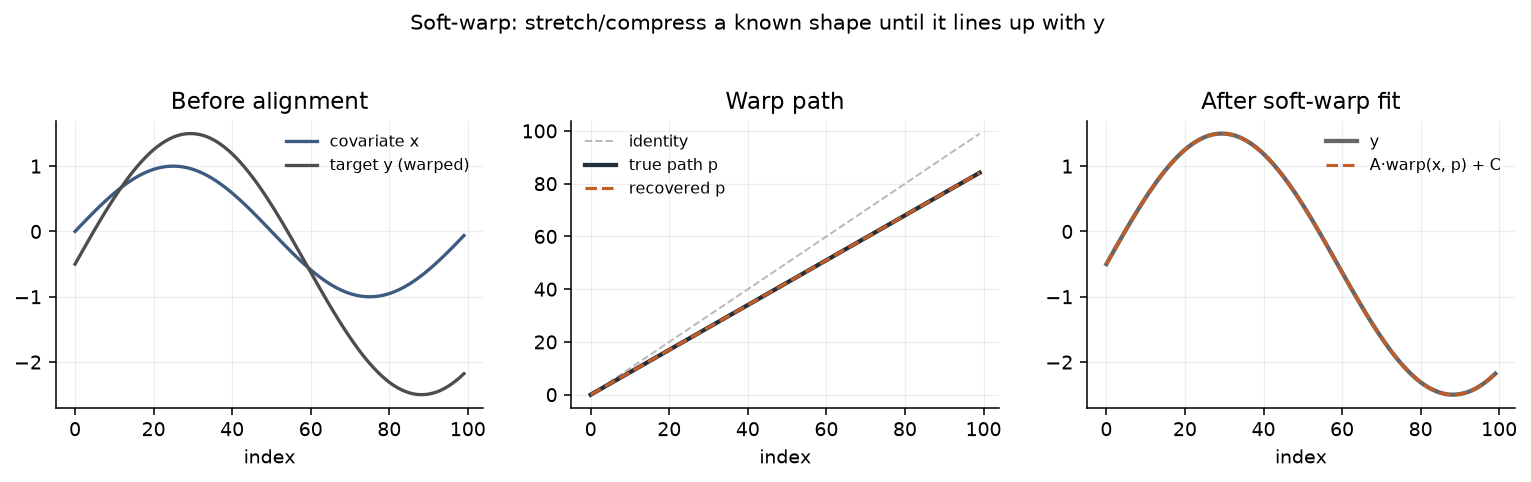
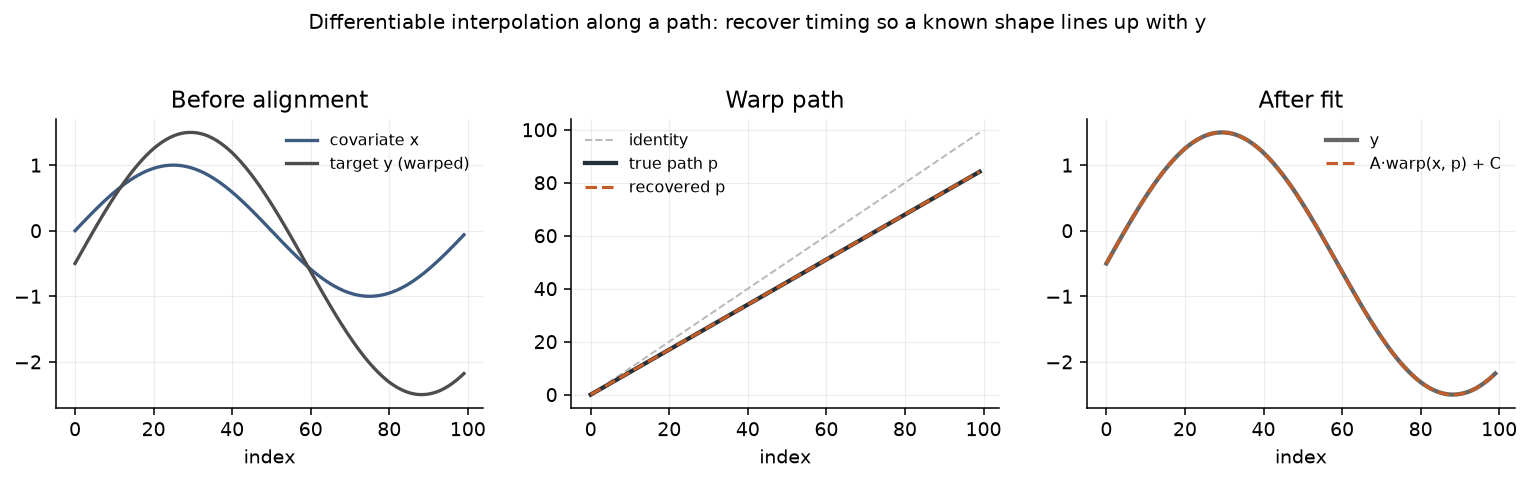
Adjust readme wording

diff --git a/README.md b/README.md
@@ -18,7 +18,7 @@ $$
 \hat{y}_i = f\big(\mathrm{warp}(x, p)_i\big),
 $$
 
-where $x$ is a covariate (often a sine or other known shape), $p$ is a low-dimensional warp path (fractional indices into $x$), and $f$ is linear, an MLP, trend + cycle, …. Soft-warp interpolates $x$ at those indices so $p$ is differentiable.
+where $x$ is a covariate (often a sine or other known shape), $p$ is a low-dimensional warp path (fractional indices into $x$), and $f$ is linear, an MLP, trend + cycle, …. **Soft-warp** here means ordinary differentiable linear interpolation of $x$ at those indices (standard technique — same family as spatial transformers / `grid_sample`; not invented in this package). What *is* specific here is scoring the path with a generative **terror** likelihood and fitting it jointly with the observation model.
 
 ### Terror (timing error)
 